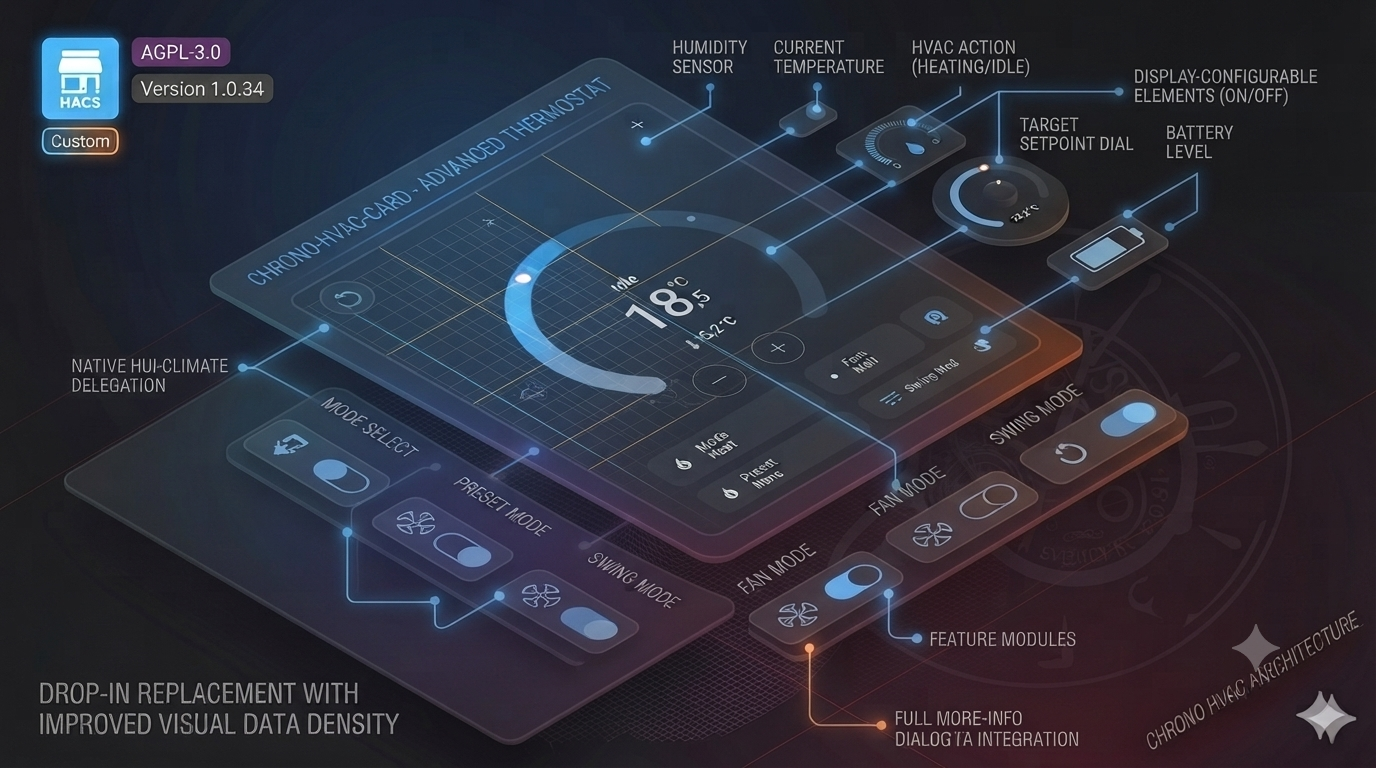
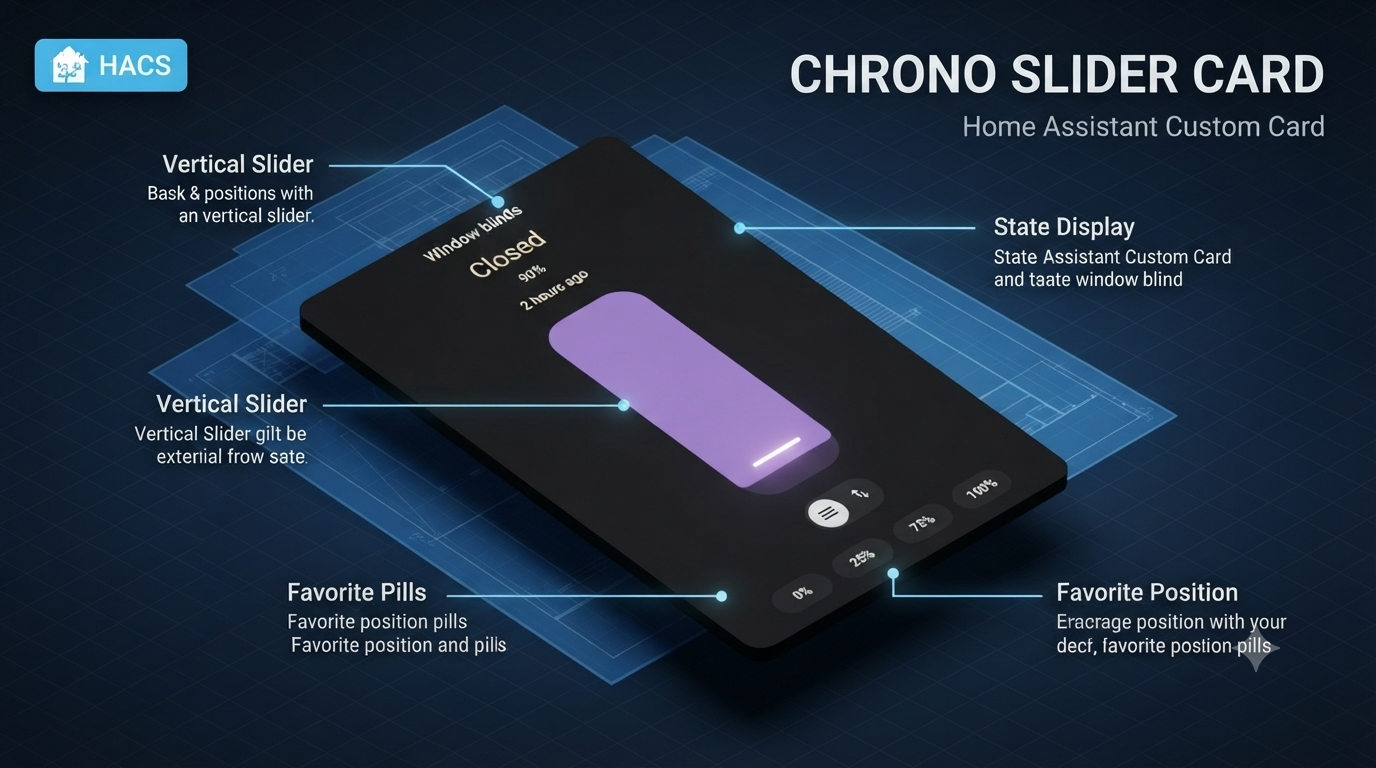
favorite positions now single sourced from config no fallback

diff --git a/src/chrono-slider-card.js b/src/chrono-slider-card.js
@@ -76,9 +76,16 @@ import { live }                  from 'https://unpkg.com/lit@2.0.0/directives/li
 import { unsafeHTML }            from 'https://unpkg.com/lit@2.0.0/directives/unsafe-html.js?module';
 
 // --- Version ---------------------------------------------------------------
-const CARD_VERSION = '1.4.47';
+const CARD_VERSION = '1.4.48';
 
 // --- Version History ---------------------------------------------------------
+// v1.4.48: Removed the card's internal favorite_positions fallback - it was
+//          a second, invisible source of truth that desynced from what the
+//          editor field showed. favorite_positions in config is now the
+//          only place favorite buttons are defined; empty/absent means zero
+//          buttons. DEFAULT_FAVORITE_POSITIONS is now only used once, by
+//          getStubConfig(), to seed a brand-new card's config with
+//          0,25,75,100 so the editor field starts pre-filled with real data.
 // v1.4.47: Title is now centered by default (text-align: center on .title).
 // v1.4.46: Renamed the title element's classname from card-title to title.
 // v1.3.45: Removed the getGridOptions() default columns value (and
@@ -1396,6 +1403,7 @@ class ChronoSliderCard extends LitElement {
     return {
       type: 'custom:chrono-slider-card',
       entity: firstCover || '',
+      favorite_positions: DEFAULT_FAVORITE_POSITIONS,
     };
   }
 
@@ -1434,11 +1442,7 @@ class ChronoSliderCard extends LitElement {
     this._showPercentage =
       config.show_percentage !== undefined ? config.show_percentage === true : DEFAULT_SHOW_PERCENTAGE;
 
-    this._favoritePositions = cscNormalizeFavoritePositions(
-      Array.isArray(config.favorite_positions) && config.favorite_positions.length
-        ? config.favorite_positions
-        : DEFAULT_FAVORITE_POSITIONS
-    );
+    this._favoritePositions = cscNormalizeFavoritePositions(config.favorite_positions);
 
     this._showControlSwitchButtons =
       config.show_control_switch_buttons !== undefined

diff --git a/README.md b/README.md
@@ -10,9 +10,9 @@
   <img src="art/banner.png" width="800" alt="Chrono Slider Card in action">
 
   <p align="center">
-    <strong>A vertical slider card for your covers, screens, and awnings.<br>
-            Open means whatever makes sense for your device - your way.<br>
-            Set up entirely with a visual editor - no YAML needed.</strong>
+    <strong>A vertical slider card for your covers, screens, shades, blinds and awnings.<br>
+            Slider direction, state and percentage are configurable so the slider<br>
+            represents your device as makes the most sense to you.</strong>
   </p>
 
   <p align="center">
